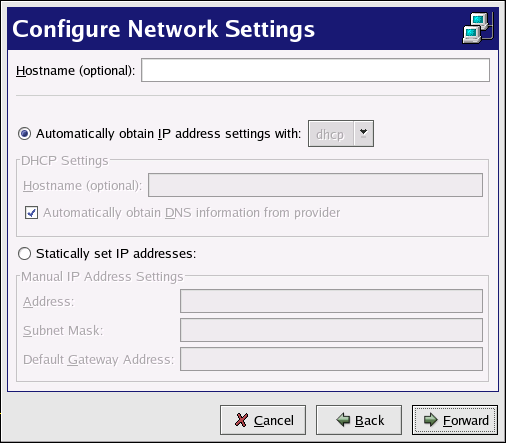
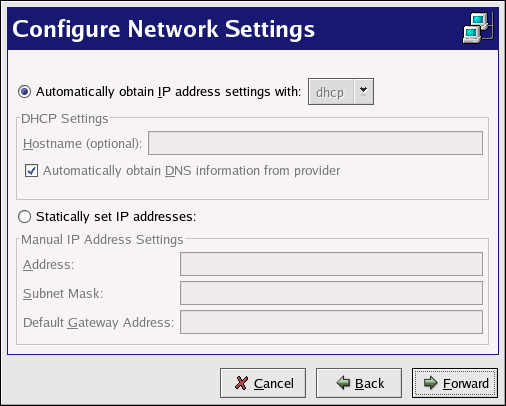
ethernet doesn't have optional hostname anymore

diff --git a/doc/network-config-ethernet.html b/doc/network-config-ethernet.html
@@ -210,8 +210,8 @@ CLASS="GUILABEL"
 HREF="network-config-ethernet.html#NEAT-ETHERNET-SETTINGS-FIG"
 >Figure 2-1</A
 >, choose between
-	    DHCP and a static IP address. You may also specify a hostname for
-	    the device. If the device receives a different IP address each time
+	    DHCP and a static IP address. 
+	    If the device receives a different IP address each time
 	    the network is started, do not specify a hostname. Click
 	    <B
 CLASS="GUIBUTTON"
